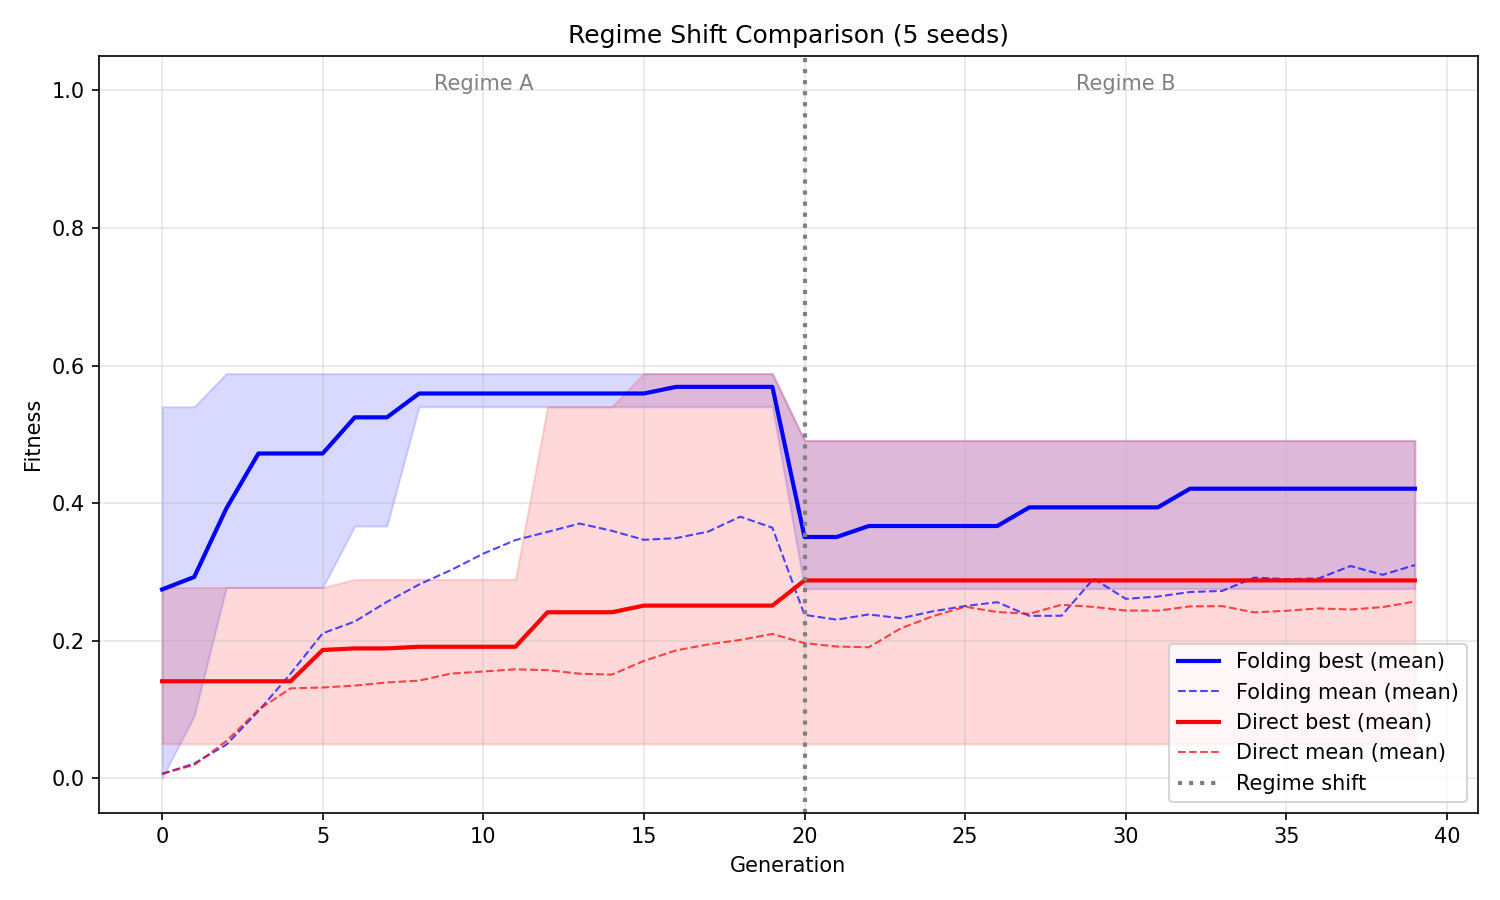
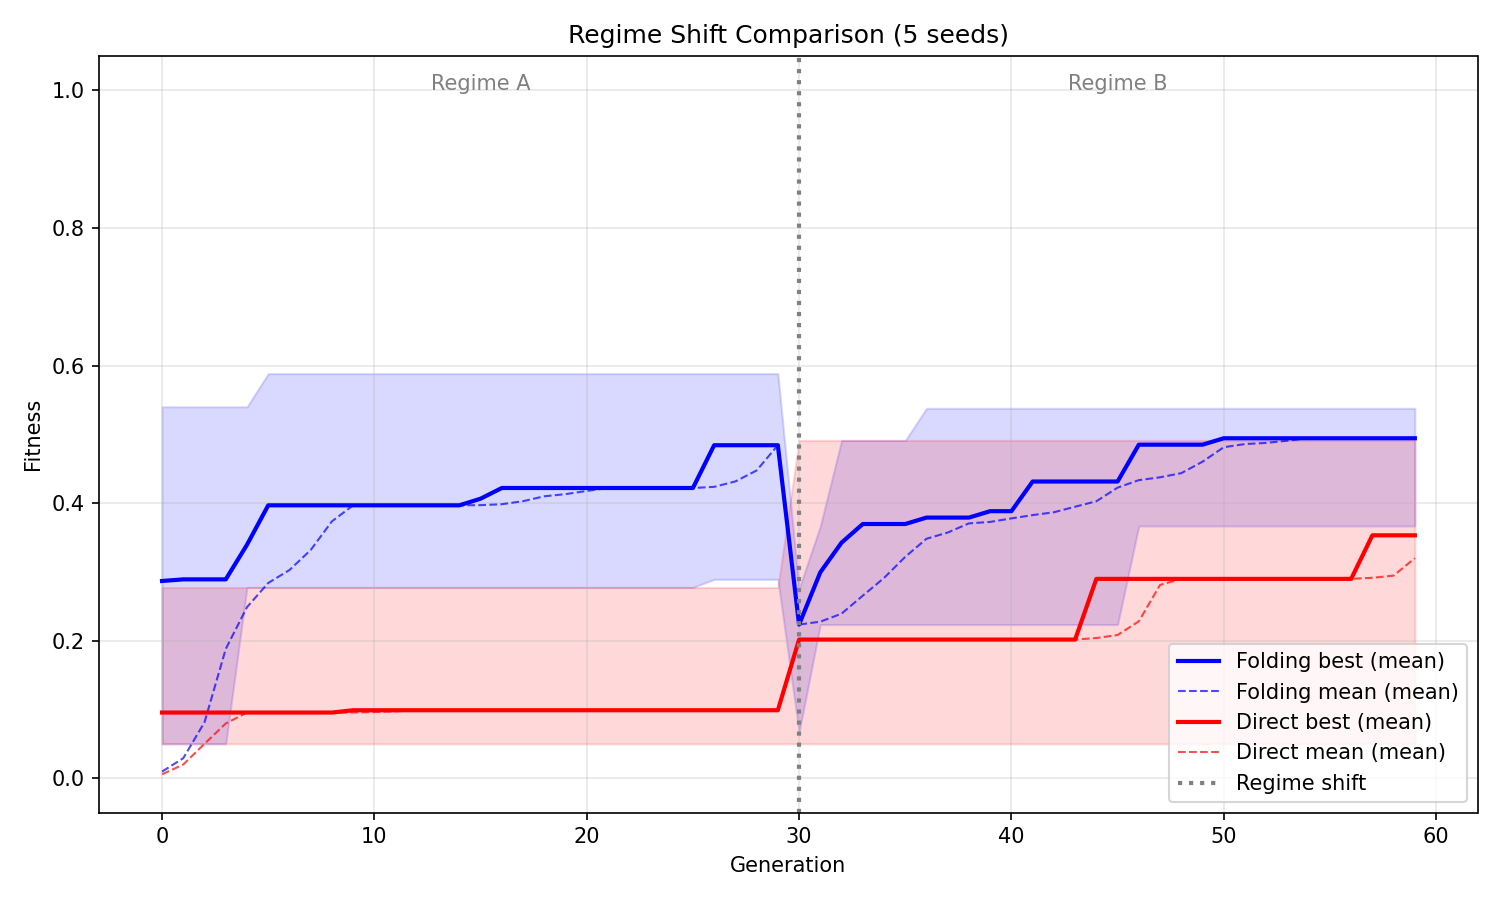
Tune regime-shift experiment to match Elixir parameters
- (mu+lambda) selection: evaluate parents+children, keep best N
- Crossover OR mutation (not both) per child, matching Elixir
- Parameters: pop=40, elite=3, crossover_rate=0.3, len=50, 30+30 gens
- Direct encoding pre-shift now 0.099 (matches Elixir's 0.100)
- Folding pre-shift 0.484, recovers to 0.494 after regime shift

diff --git a/src/folding_evolution/dynamics.py b/src/folding_evolution/dynamics.py
@@ -11,7 +11,7 @@ from .direct import develop_direct
 from .individual import Individual
 from .operators import crossover, mutate
 from .phenotype import Program, develop
-from .selection import select_next_generation
+from .selection import select_next_generation, tournament_select
 from .stats import StatsCollector
 
 
@@ -89,28 +89,26 @@ def _evolve_phase(
 
         stats.record(gen_offset + gen, population)
 
-        selected = select_next_generation(
-            population, config.elite_count, config.tournament_size, rng
-        )
-
-        next_pop: list[Individual] = []
-        for i in range(config.population_size):
-            if i < config.elite_count:
-                next_pop.append(Individual(genotype=selected[i].genotype))
+        # Produce children: crossover OR mutation (not both), matching Elixir
+        children: list[Individual] = []
+        for _ in range(config.population_size):
+            if rng.random() < config.crossover_rate:
+                a = tournament_select(population, config.tournament_size, rng)
+                b = tournament_select(population, config.tournament_size, rng)
+                child_geno = crossover(a.genotype, b.genotype, rng)
             else:
-                parent = selected[i]
-                if rng.random() < config.crossover_rate:
-                    partner = selected[rng.randrange(len(selected))]
-                    child_geno = crossover(parent.genotype, partner.genotype, rng)
-                else:
-                    child_geno = parent.genotype
+                parent = tournament_select(population, config.tournament_size, rng)
+                child_geno = mutate(parent.genotype, rng)
+            children.append(Individual(genotype=child_geno))
 
-                if rng.random() < config.mutation_rate:
-                    child_geno = mutate(child_geno, rng)
+        # (mu+lambda) selection: evaluate children, combine with parents, keep best
+        for ind in children:
+            ind.program = develop_fn(ind.genotype)
+            ind.fitness = evaluate_multi_target(ind, targets, contexts)
 
-                next_pop.append(Individual(genotype=child_geno))
-
-        population = next_pop
+        combined = population + children
+        combined.sort(key=lambda ind: ind.fitness, reverse=True)
+        population = [Individual(genotype=ind.genotype) for ind in combined[:config.population_size]]
 
     # Final evaluation
     for ind in population:

diff --git a/experiments/exp_regime_shift.py b/experiments/exp_regime_shift.py
@@ -21,14 +21,15 @@ from folding_evolution.visualization import plot_regime_shift, plot_regime_shift
 
 
 def main():
+    # Parameters matching Elixir implementation
     config = EvolutionConfig(
-        population_size=50,
-        genotype_length=30,
-        generations=40,
+        population_size=40,
+        genotype_length=50,   # sweet spot from findings (more folding opportunities)
+        generations=60,
         tournament_size=3,
-        elite_count=2,
-        mutation_rate=0.3,
-        crossover_rate=0.7,
+        elite_count=3,
+        crossover_rate=0.3,
+        mutation_rate=1.0,  # always mutate when not crossing over
         seed=42,
     )
 
@@ -47,8 +48,8 @@ def main():
         lambda ctx: len(ctx["employees"][1:]),     # count of rest(employees)
     ]
 
-    regime_a_gens = 20
-    regime_b_gens = 20
+    regime_a_gens = 30
+    regime_b_gens = 30
     n_seeds = 5
 
     print("=" * 60)
